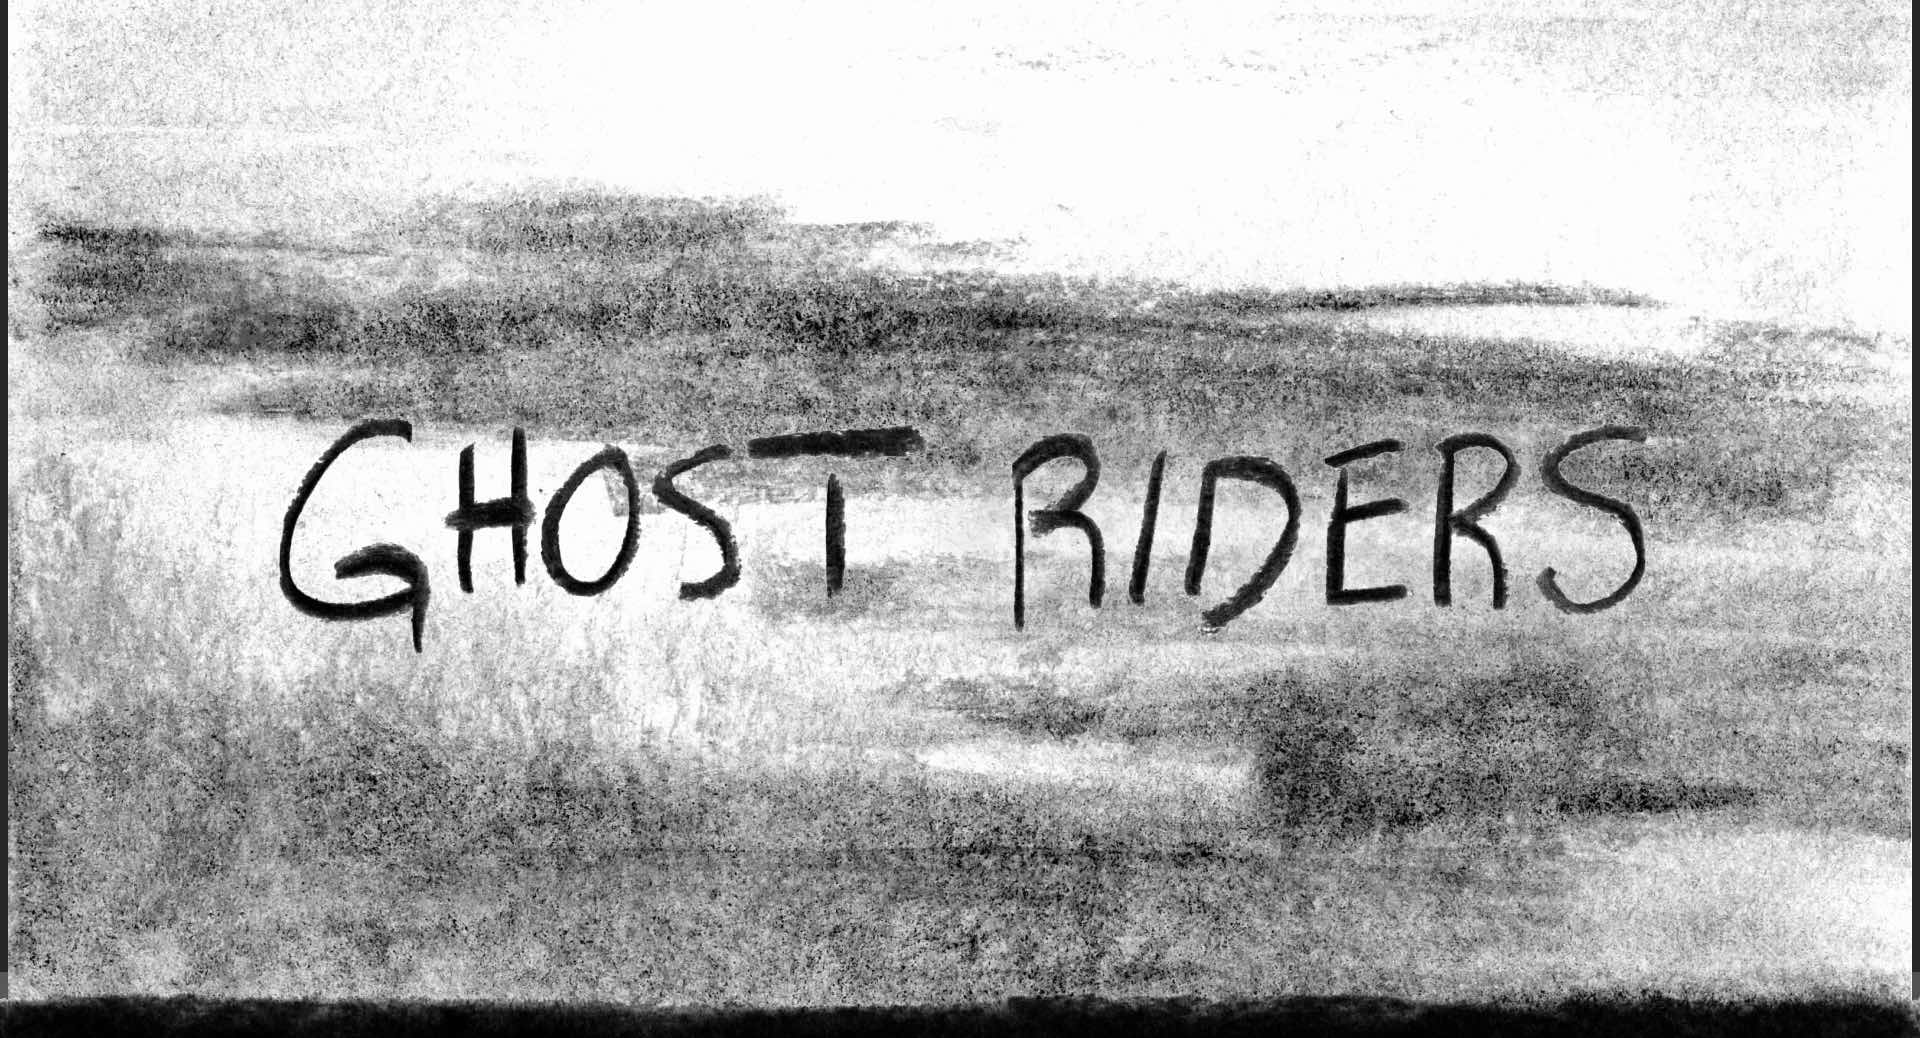
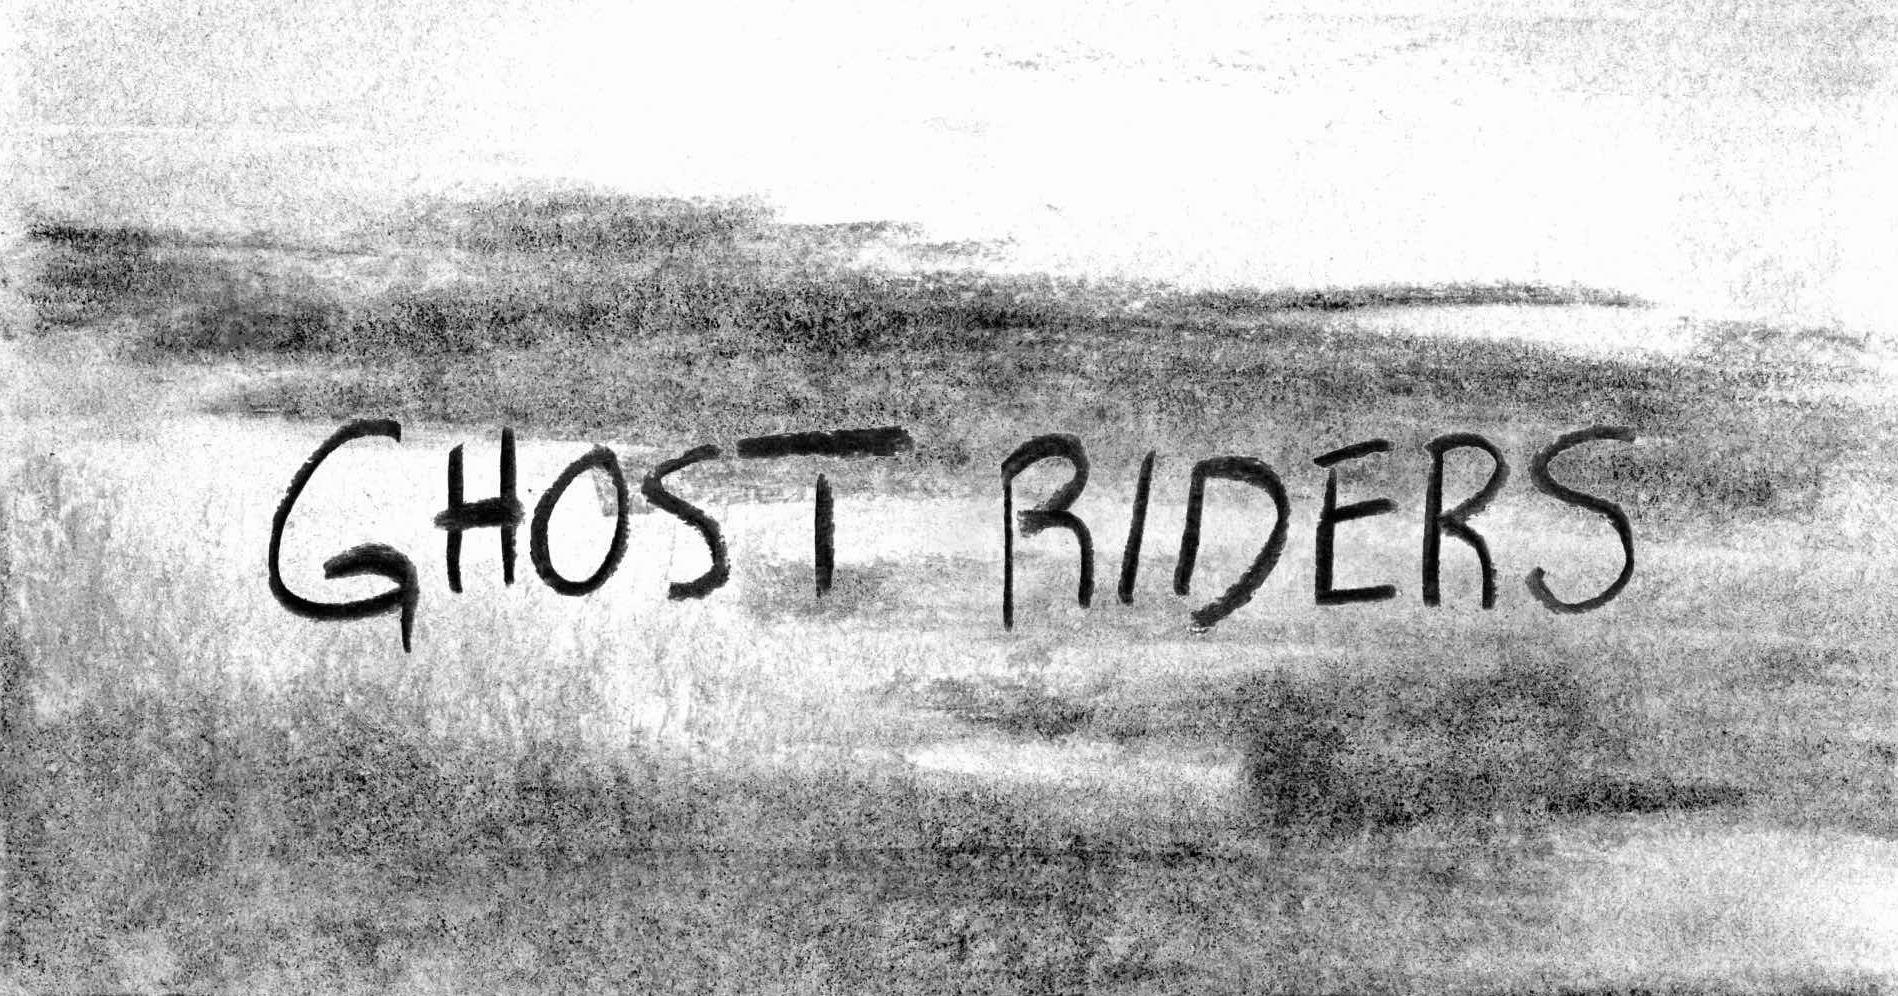
GR updates

diff --git a/ghost_riders_film/index.html b/ghost_riders_film/index.html
@@ -38,7 +38,7 @@
 <meta property="og:url" content="https://freyastack.com/ghost_riders_film/">
 <meta property="og:title" content="Freya Stack: Illustration, art and design">
 <meta property="og:description" content="Ghost Riders">
-<meta property="og:image" content="https://freyastack.com/ghost_riders/Ghost_Riders_Final_Export_Still.jpg">
+<meta property="og:image" content="https://freyastack.com/ghost_riders_film/Ghost_Riders_Final_Export_Still_2.jpg">
 
 <!-- Twitter Meta Tags -->
 <meta name="twitter:card" content="summary_large_image">
@@ -46,7 +46,7 @@
 <meta property="twitter:url" content="https://freyastack.com/ghost_riders_film/">
 <meta name="twitter:title" content="Freya Stack: Illustration, art and design">
 <meta name="twitter:description" content="Ghost Riders">
-<meta name="twitter:image" content="https://freyastack.com/ghost_riders/Ghost_Riders_Final_Export_Still.jpg">
+<meta name="twitter:image" content="https://freyastack.com/ghost_riders_film/Ghost_Riders_Final_Export_Still_2.jpg">
 	
 			
 		

diff --git a/index.html b/index.html
@@ -126,7 +126,18 @@
     <div class="">
       <ul class="small-block-grid-2 medium-block-grid-3 large-block-grid-3 masonry">
       
+	<!--
 	<li class="masonry-item grid">
+          <figure class="effect-sarah"> <img src="ghost_riders_film/Ghost_Riders_Final_Export_Still_2.jpg" alt="Film still from Ghost Riders" />
+            <figcaption>
+              <h2><span>Ghost Riders</span></h2>
+              <p class="description">Short film</p>
+              <a href="ghost_riders_film/">View more</a> </figcaption>
+          </figure>
+        </li>
+    -->
+        
+        <li class="masonry-item grid">
           <figure class="effect-sarah"> <img src="twine_images/the_gateway_cover.jpg" alt="Installation view of final major project exhibit" />
             <figcaption>
               <h2><span>The Gateway</span></h2>
